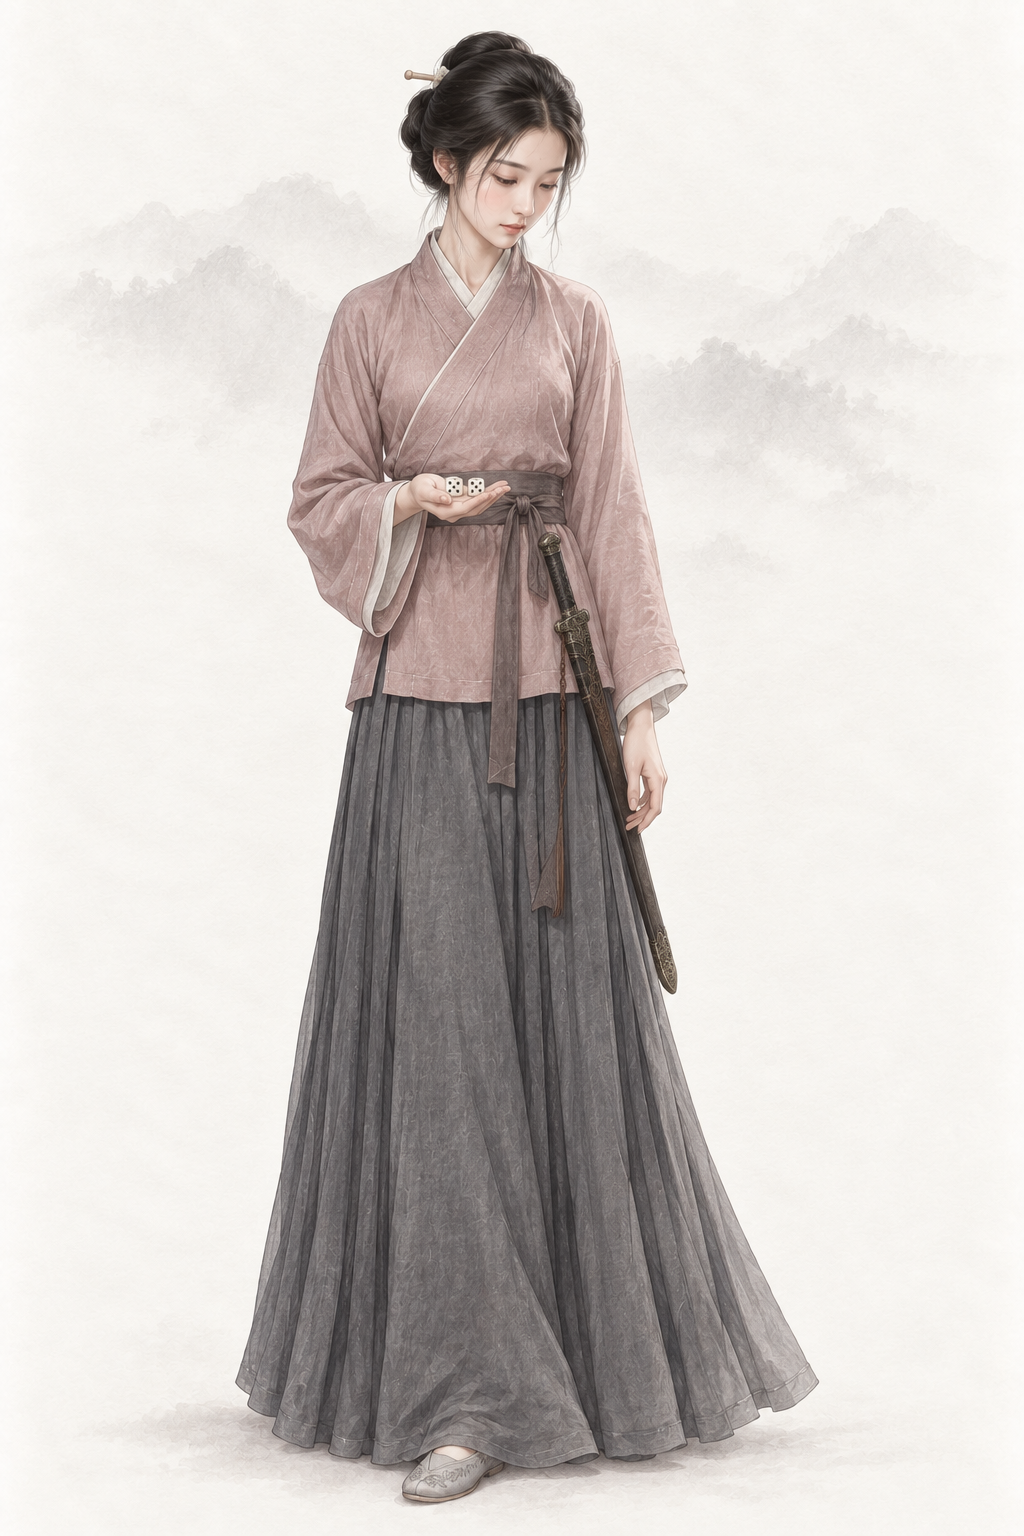
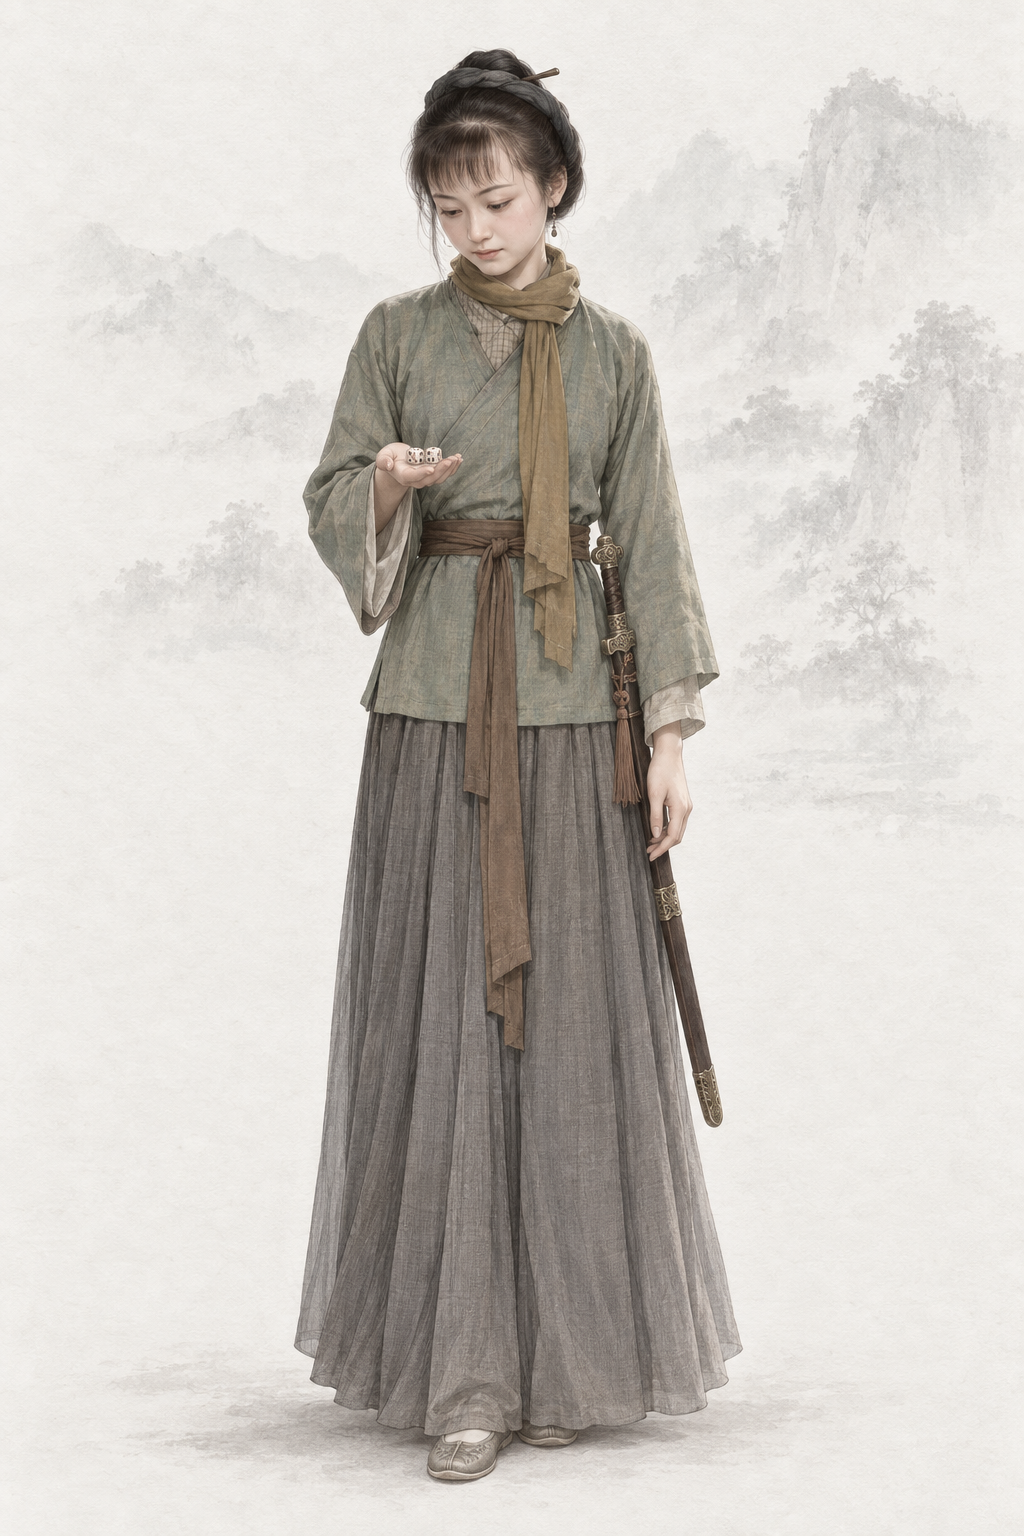
assets(character): por_npc_zengrou__ch08_youth_base 曾柔（codex · AR-32 经典剧照重出）
1998 年 TVB《鹿鼎记》剧照 2 张 + 基线；提示词写回「## Gemini 提示词」，上一版留作历史，frontmatter 加 classic_ref。

Changed region(s): [[0.125, 0.0, 1.0, 1.0], [0.6562, 0.0312, 0.9688, 0.25], [0.125, 0.875, 0.1875, 0.9062]]

diff --git a/assets/default/prompts/characters/ch08-luding/npc_zengrou.md b/assets/default/prompts/characters/ch08-luding/npc_zengrou.md
@@ -15,15 +15,44 @@ references:
   use: 第二参考只提供暖浅灰不透明纸底、极浅低对比水墨远山、薄雾和留白。已实际view；完全忽略王语嫣本人面容、年龄、性别、身体、倾头、发髻、白青衣裙、飘带和饰物。水墨和纸纹仅在人物之外，不能侵蚀皮肤、衣料、头发或器物。
 status: redo
 redo_reason: "现图是照片感的平淡脸配齐刘海，神情呆板、偏稚气；旧图以 1998 年剧集剧照为面部身份参考生成，有复刻真人面容的风险（本轮口径禁止）。改为约二十岁、温柔腼腆的成年女弟子。"
-reference_upload:
-- assets/default/baseline/character/female/ref_npc_wangyuyan__ch01_base01.png
 realism_revision: user_identity_pose_20261001
 codex_prompt_rev: 2026-10-02
+classic_ref:
+  version: "1998 年 TVB《鹿鼎记》"
+  stills:
+  - ".agents/coord/imagegen-reference/identity-20261001/luding/zengrou_1998_chenanqi_sina2016_2.png"
+  - ".agents/coord/imagegen-reference/identity-20261001/luding/zengrou_1998_chenanqi_sina2016_1.png"
+  note: "剧照缩到长边 1024 的 JPEG 上传，放在两张同性别基线之前（AR-32）；zengrou_1998_chenanqi_sina2016_1.png 裁切框 (0.0, 0.0, 1.0, 0.78)"
+reference_upload:
+- .agents/coord/imagegen-reference/identity-20261001/luding/zengrou_1998_chenanqi_sina2016_2.png
+- .agents/coord/imagegen-reference/identity-20261001/luding/zengrou_1998_chenanqi_sina2016_1.png
+- assets/default/baseline/character/female/ref_npc_wangyuyan__ch01_base01.png
+- assets/default/baseline/character/female/ref_npc_xiaolongnv__ch03_base01.png
 ---
 
 # 曾柔 · 人物写实修正
 
 ## Gemini 提示词
+
+> 2026-10-02 AR-32 经典剧照重出（6 号出图员，codex exec · image_gen 出图）：上传该角色经典影视版剧照 2 张（1998 年 TVB《鹿鼎记》：zengrou_1998_chenanqi_sina2016_2.png、zengrou_1998_chenanqi_sina2016_1.png）在前、两张同性别基线在后。剧照只借鉴发型、服饰、配色、标志道具、气质与面部特征，重新绘制成项目画风，不照搬照片的构图、光影和姿势；人物一律成年。提示词里不写演员名。上一版提示词保留在下一节作历史。
+
+```text
+生成一张 2:3 竖幅全身人物立绘：单人、单一视角、完整全身——头顶、双手、双脚和手中器物的两端都在画面内，四周留出自然空白；人物站姿自然，身体基本朝向正面，头部端正（不歪头、不仰不俯），镜头平视。
+【参考图】随提示词上传 4 张参考图。第 1–2 张参考图是该角色经典影视造型的剧照：借鉴其发型、服饰、配色、标志道具、气质和面部特征，让人一眼认出是这个角色；但必须重新绘制成项目画风，不要照片质感，不要照搬剧照的构图、光影、背景和姿势，也不要做成照片修图。剧照与下文文字不一致的地方（年龄、所处阶段、帽饰与衣装细节、手中器物），以下文文字为准；画中人一律是成年人。最后两张是本项目画风基线：画风、用色、光线、质感和暖浅灰纸底加淡水墨背景以它们为准。
+【画风】写实手绘古风人物插画，与本项目写实武侠角色立绘同一画风，像功力深厚的画师用细腻笔触画出的真实美人。手绘插画质感，不是 CG 渲染：不要过度光滑的皮肤、完美对称的五官、塑料高光、过度锐利的发丝；保留自然的笔触和细微不完美。肌肤细腻自然，看得见极细的肤理和自然的左右不对称，不磨皮、不油亮、不打粉；头发是一缕缕自然的发丝和少量碎发；布料看得出经纬纹理、厚薄和自然垂坠的褶皱，干净完整；整体设色低饱和、雅致；柔和的自然光从左上方照来，明暗过渡自然，不打舞台光、轮廓光或美颜柔光。不是照片，不是三维渲染，不是动漫或游戏 CG，也不是油画（没有厚涂笔触和画布纹理）。
+【背景】不透明的暖浅灰色纸底，只在远处有极淡的水墨远山和薄雾，大面积留白；人物与背景明暗分明、轮廓边缘干净完整（后续要自动抠图），水墨和纸纹只在背景里，不侵入人物和衣服；脚下只有很淡的一点接触阴影。
+【人物】曾柔，《鹿鼎记》中王屋派的女弟子，韦小宝掷骰子“赢”下她、放王屋派众人离去之后的时期。
+【年龄与体态】外观约二十岁的成年年轻女子，身材匀称，成人比例。
+【经典造型】要一眼认出是曾柔——灰绿短袄、颈间土黄布巾、齐刘海、掌心两颗骰子、低头含羞，温柔腼腆；清秀美丽的成年女子。
+【面容】脸以剧照为底子——保留剧照里这个角色的脸型、眉眼、鼻唇的比例关系和神气，画成成年人；清秀温婉的长鹅蛋脸；眉毛细弯；眼睛清澈，神情羞涩腼腆，带一点怯生生的温柔；鼻梁细直；嘴唇小巧；皮肤白净，有淡淡的红晕和真实纹理。
+【发式】额前一排齐整的薄刘海；黑发在脑后挽成低髻，插一支小木簪。
+【服饰】清初汉族女子——灰绿色交领窄袖短袄（右衽），颈间松松围一条土黄色布巾、深灰长裙、棕色腰带、平底布鞋。
+【道具与姿态】左腰佩一柄连鞘长剑；右手掌心托着两颗小骰子，低头看着骰子；安静站立。
+【不要】画面里不要任何文字、题款、印章、签名、水印、台标、边框、分格或多视图；不要第二个人；不要幼态（童颜、娃娃脸、婴儿肥、儿童或少年身材、大头小身）；不要塑料感皮肤、磨皮美颜、网红脸（尖下巴大眼高鼻的模板脸）、过度对称、浓妆、偶像式打光、蜡像感；不要照片质感、三维渲染或动漫大眼；不要歪头、斜镜头；不要多指、缺指（设定的伤残除外）、手与器物粘连或悬空；汉式交领必须右衽（穿着者的左襟压在右襟上），不要左衽（设定为少数民族服制的除外），不要水平镜像；不要现代物品、日式服饰或日本刀、发光特效、法阵或能量光。不要照片或照片修图的质感，不要照搬剧照的构图、光影、背景和姿势，不要剧照里的字幕、台标和水印。不要孩子气的脸；不要呆板无神的表情；不要照片感。清初汉族女子仍穿明式袄裙：汉式交领一律右衽（穿着者左襟压右襟），不要左衽、不要水平镜像。
+【画风基线】随提示词上传的参考图里，最后两张是本项目的立绘画风基线：只参考它们的画风、用色、光线、质感和暖浅灰纸底加淡水墨的背景处理，整体画风必须与它们一致——精细写实的数字手绘插画，不是油画，不要厚涂笔触和画布纹理。基线图只取画风，不取长相：不要照搬基线图里人物的长相、年龄、发型、服饰和姿势。
+```
+
+## 上一版 Gemini 提示词（2026-10-02 文字版；AR-32 经典剧照重出前，历史，不再用于出图）
 
 > 2026-10-02 Codex 人物线 2 号（AR-31）：在审核组稿上补一行「经典形象」（借鉴公认经典造型的发式、装束、配色、标志道具与气质，只写文字，不写演员名、不上传剧照），并补去 AI 化要求。本轮出图用下面第一个代码块；审核组原稿保留在其后的「审核组原稿」小节作历史。
 
